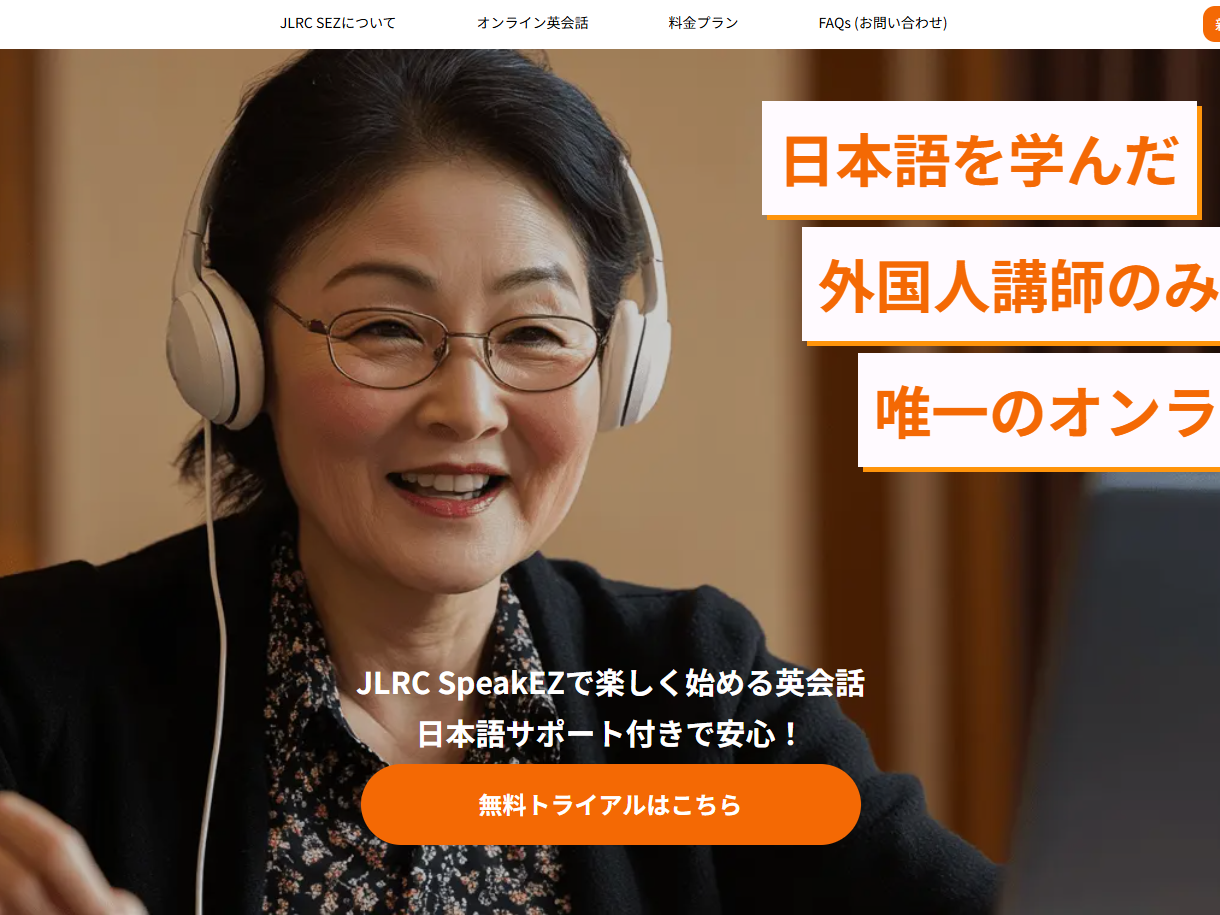
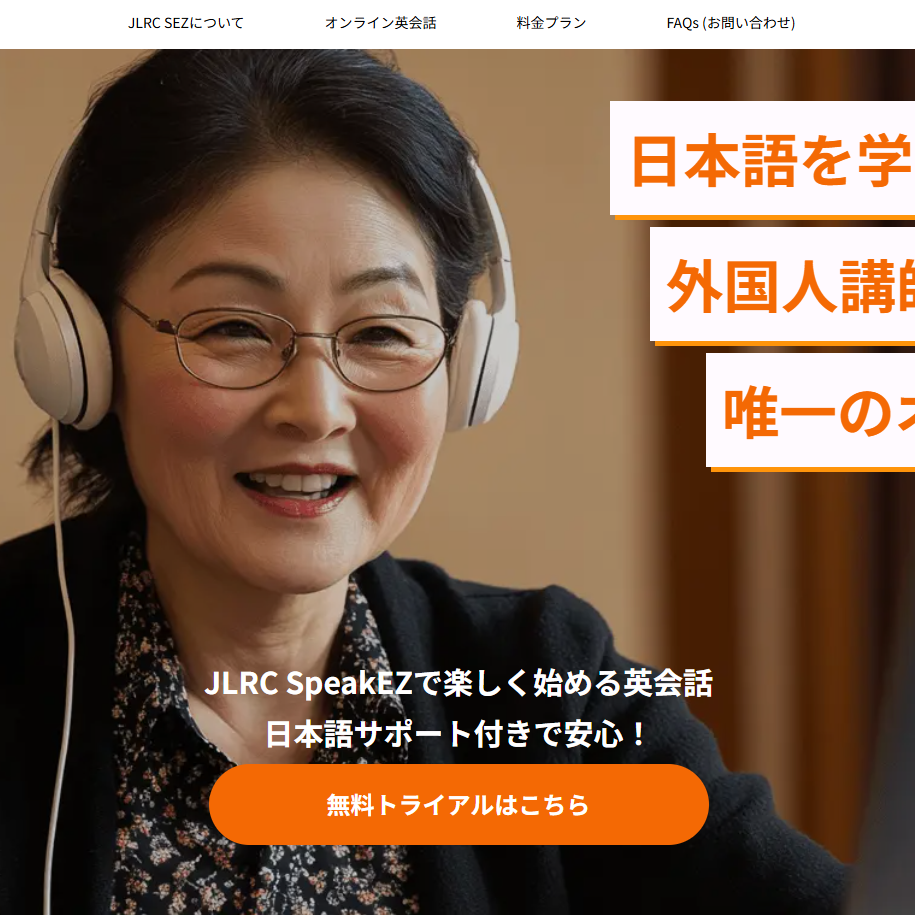
work item component for work page

diff --git a/app/works/workItem/workItem.tsx b/app/works/workItem/workItem.tsx
@@ -2,38 +2,42 @@ import React from "react";
 import styles from "./workItem.module.css";
 import { Work } from "@/app/types/workTypes";
 import Image from "next/image";
-import Arrow from "@/public/svg/arrow-right-02-stroke-rounded";
+import Link from "next/link";
 
 interface WorkItemProps {
   work: Work;
+  styles: typeof styles;
   index: number;
 }
-const WorkItem: React.FC<WorkItemProps> = ({ work, index }) => {
+const WorkItem: React.FC<WorkItemProps> = ({ work, styles, index }) => {
   return (
-    <section className={`w-screen bg-blue-500 ${index % 2 === 0 ? "" : ""}`}>
-      <div
-        className={` max-w-[450px] min-w-[280px] pb-10 relative`}
-      
-      >
+    <Link
+      className={`${styles.project}   `}
+      style={{ "--index": index } as React.CSSProperties}
+      href={`works/${work.link}`}
+      data-cursor="View"
+    >
+      <div className="w-full overflow-hidden">
         <Image
-          src={work.inImg.src}
+          src={work.img.src}
           alt={work.title}
-          width={100}
-          height={100}
+          width={300}
+          height={300}
           quality={100}
-          className=""
+          className={`${styles.image}`}
         />
-        <div>
-          <h1 className={`text-6xl `}>{work.title}</h1>
-        </div>
-        <div className={`${styles.end}`}>
-          <div className={`${styles.endContent}`}> {work.end}</div>
-        </div>
-        <div className={`${styles.button} bg-pink-500 z-20`}>
-          <Arrow className={`${styles.arrow}`} />
+      </div>
+
+      <div className={styles.overlay}>
+        <div className={styles.endDate}>
+          <p className={styles.endDateContent}>{work.end}</p>
         </div>
       </div>
-    </section>
+      <div className="p-5 text-xl  md:p-10 tracking-none ">
+        <h4 className={`${styles.projectType} `}>{work.projectType}</h4>
+        <h3 className={styles.projectTitle}>{work.title}</h3>
+      </div>
+    </Link>
   );
 };
 

diff --git a/app/works/page.tsx b/app/works/page.tsx
@@ -1,10 +1,8 @@
-import React from "react";
-import Image from "next/image";
-import Link from "next/link";
 import { Work } from "@/app/types/workTypes";
 import { works } from "@/app/data/worksData";
 // import Arrow from "@/public/svg/arrow-right-02-stroke-rounded";
 import styles from "./workItem/workList.module.css";
+import WorkItem from "./workItem/workItem";
 
 const WorksPage = () => {
   const thisFunction = (string: string) => {
@@ -29,38 +27,7 @@ const WorksPage = () => {
             } `}
             key={index}
           >
-            {" "}
-            <Link
-              className={`${styles.project}   `}
-              style={{ "--index": index } as React.CSSProperties}
-              href={`works/${work.link}`}
-              data-cursor="View"
-            >
-              <div className="w-full overflow-hidden">
-                {" "}
-                <Image
-                  src={work.img.src}
-                  alt={work.title}
-                  width={300}
-                  height={300}
-                  quality={100}
-                  className={`${styles.image}`}
-                />
-              </div>
-
-              <div className={styles.overlay}>
-                <div className={styles.endDate}>
-                  <p className={styles.endDateContent}>{work.end}</p>
-                </div>
-                {/* <div className={styles.arrowContainer}>
-                  <Arrow className="w-[60%]" />
-                </div> */}
-              </div>
-              <div className="p-5 text-xl  md:p-10 tracking-none ">
-                <h4 className={`${styles.projectType} `}>{work.projectType}</h4>
-                <h3 className={styles.projectTitle}>{work.title}</h3>
-              </div>
-            </Link>
+            <WorkItem work={work} styles={styles} index={index} />
           </div>
         ))}
       </div>

diff --git a/app/works/workItem/workList.module.css b/app/works/workItem/workList.module.css
@@ -27,7 +27,6 @@
 }
 
 .image {
-  width: 100%; /* w-full */
 }
 
 .overlay {
